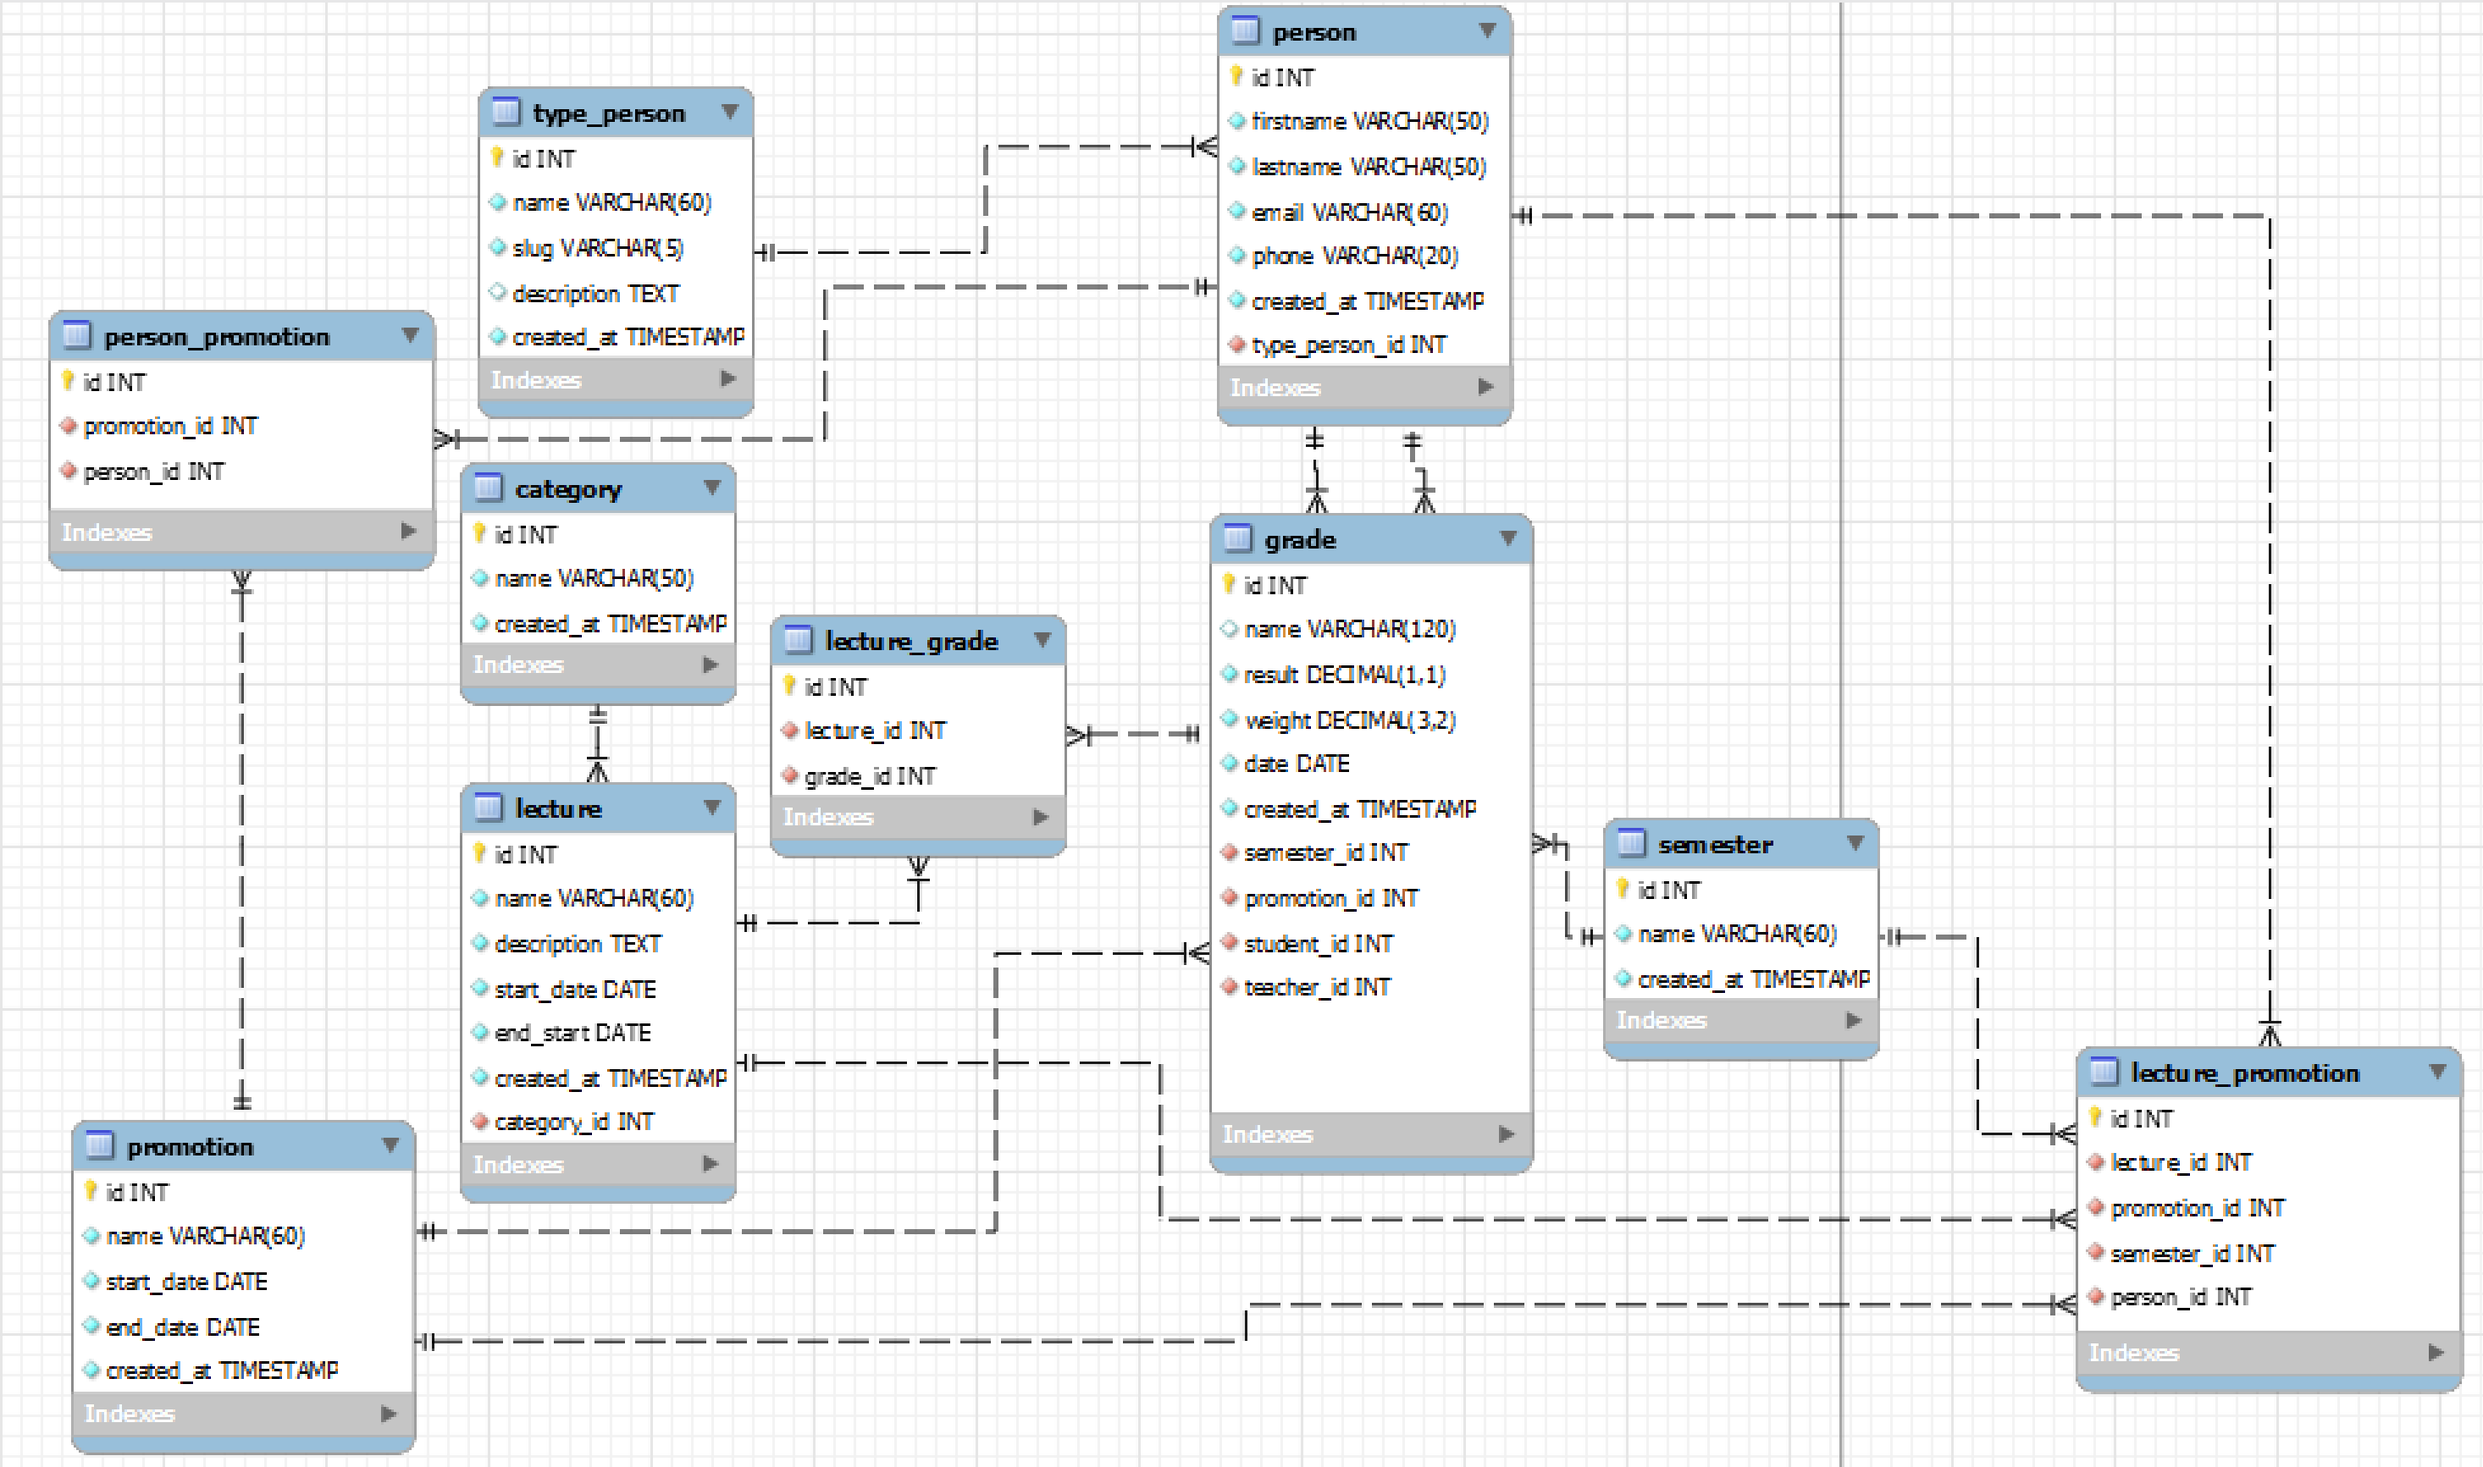
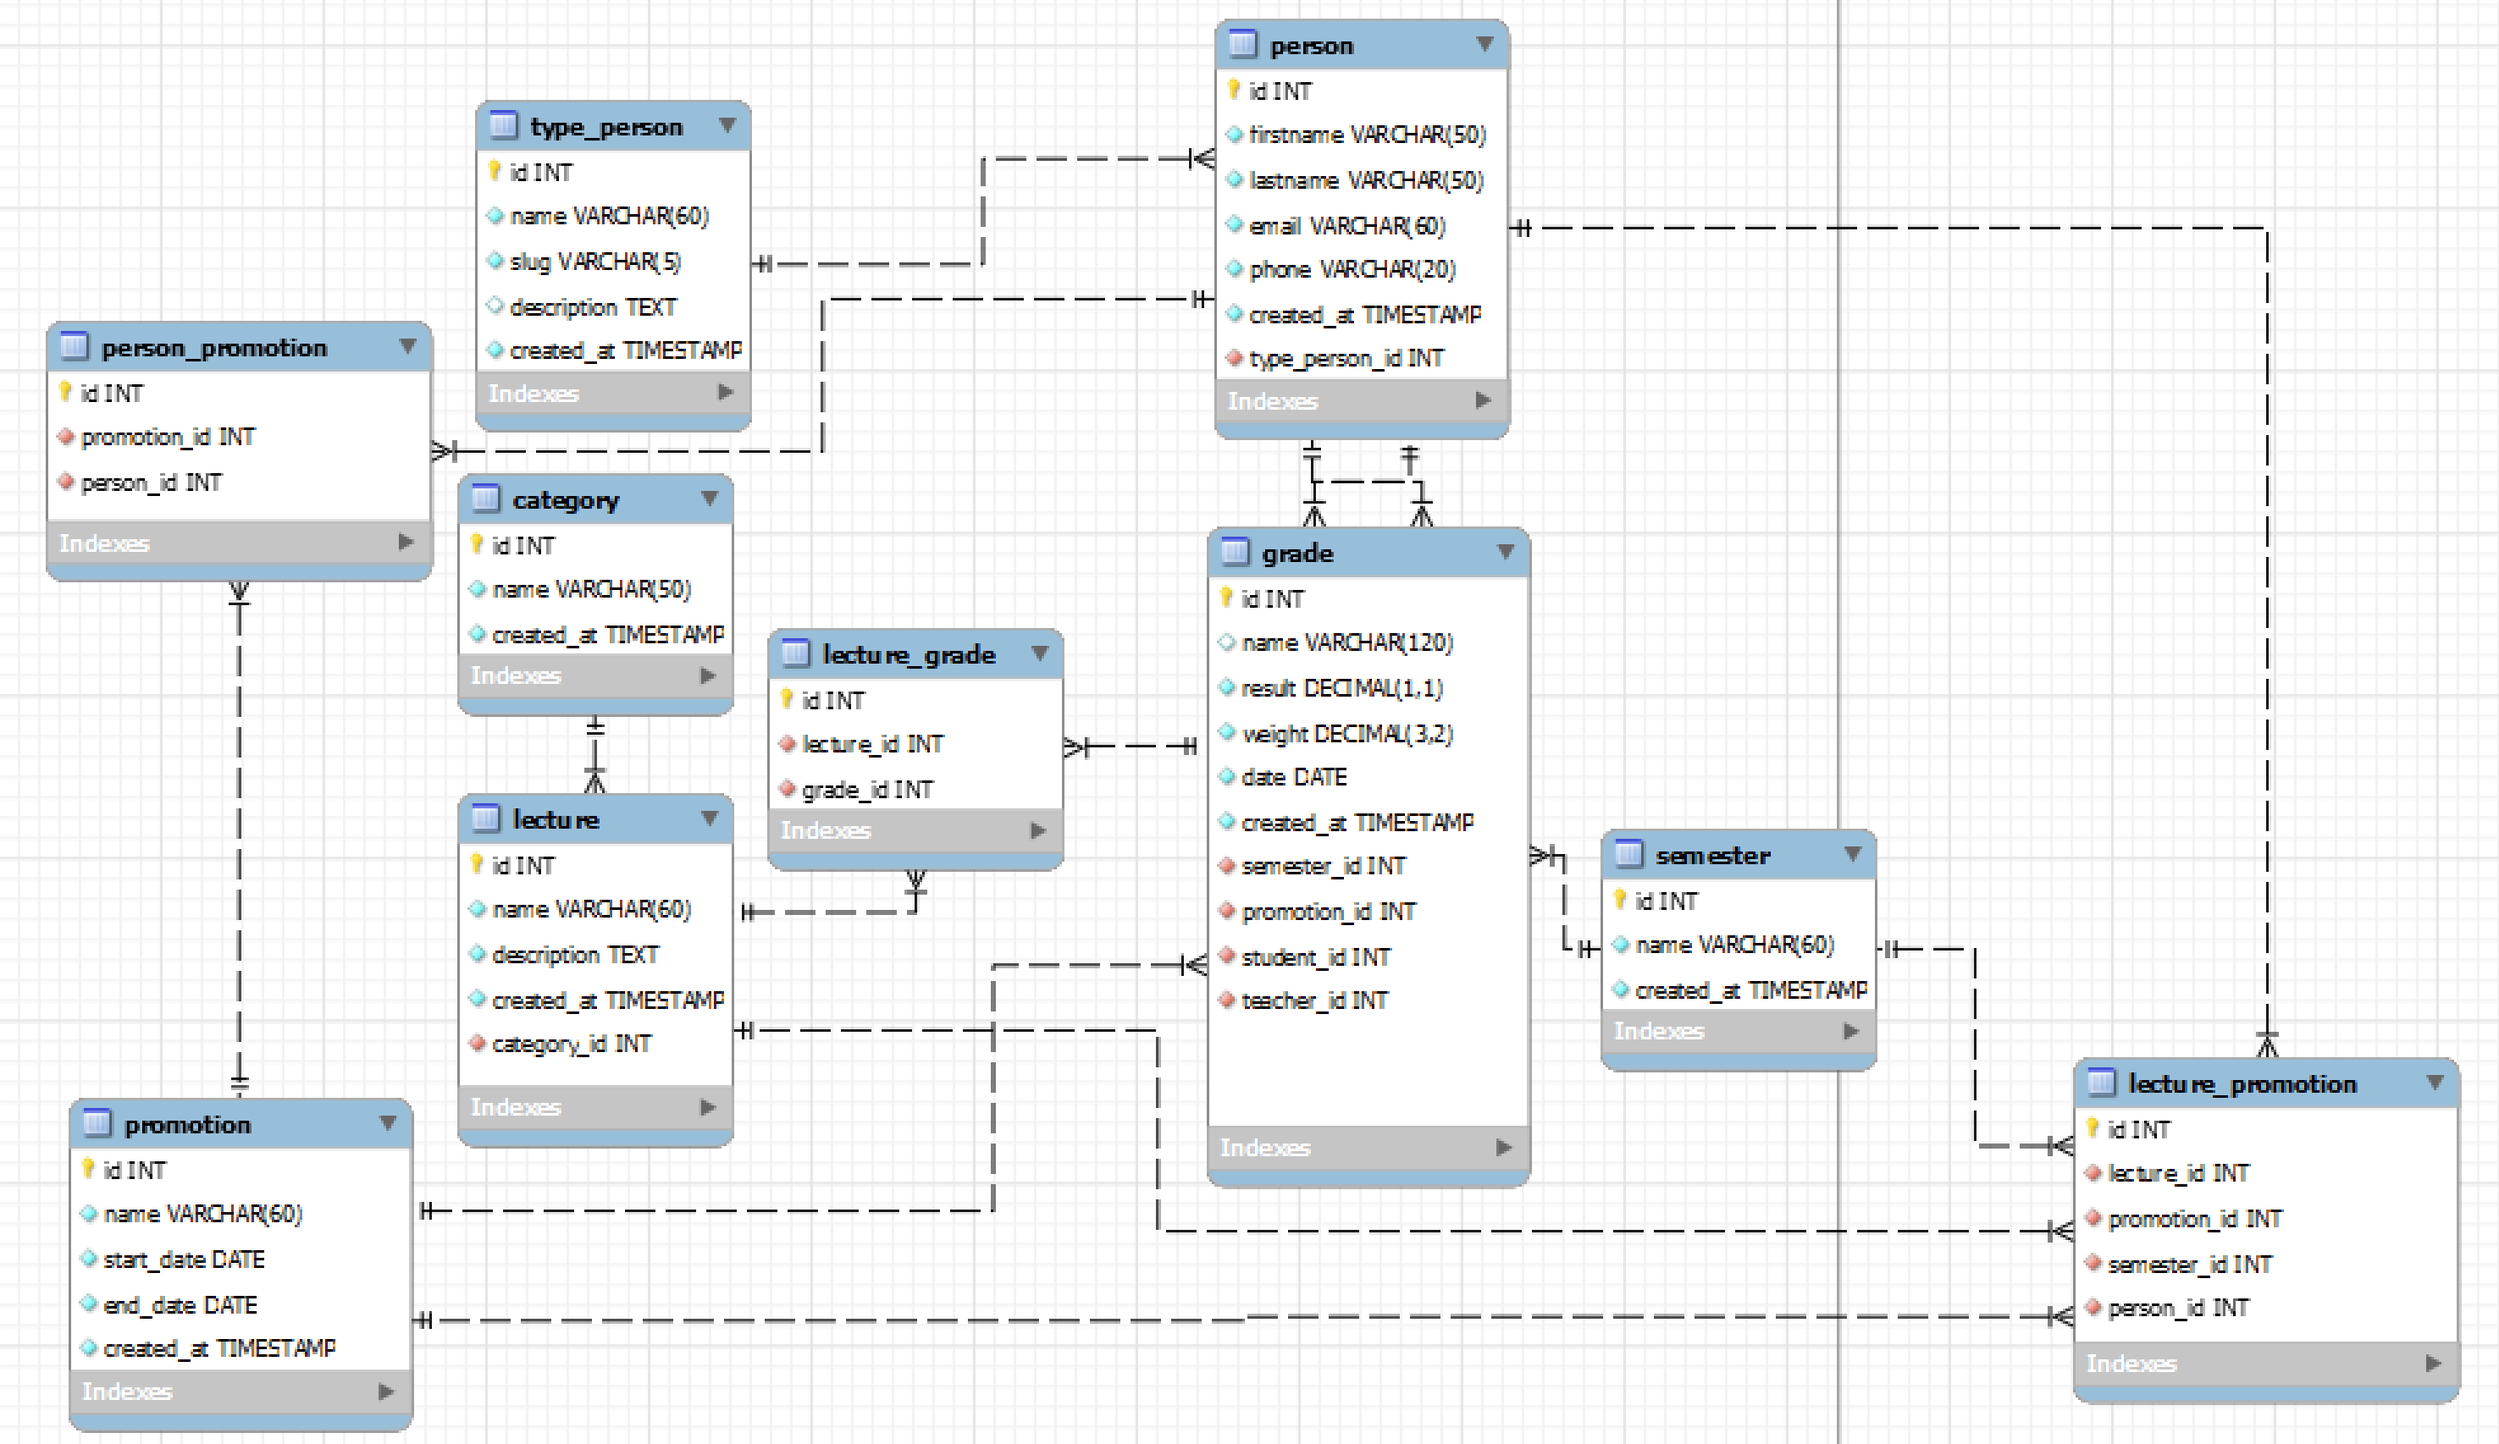
Update the lecture table

diff --git a/db/migrate/20230223234011_create_lectures.rb b/db/migrate/20230223234011_create_lectures.rb
@@ -3,8 +3,6 @@ class CreateLectures < ActiveRecord::Migration[7.0]
     create_table :lectures do |t|
       t.string :name, null: false
       t.text :description, null: false
-      t.date :start_date, null: false
-      t.date :end_date, null: false
       t.references :category, null: false, foreign_key: true
       t.timestamps
     end

diff --git a/app/models/lecture.rb b/app/models/lecture.rb
@@ -7,6 +7,4 @@ class Lecture < ApplicationRecord
 
   validates :name, presence: true
   validates :description, presence: true
-  validates :start_date, presence: true
-  validates :end_date, presence: true
 end
